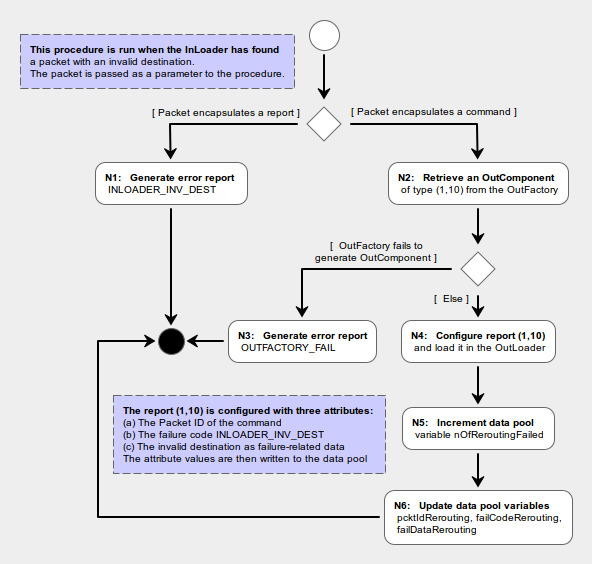
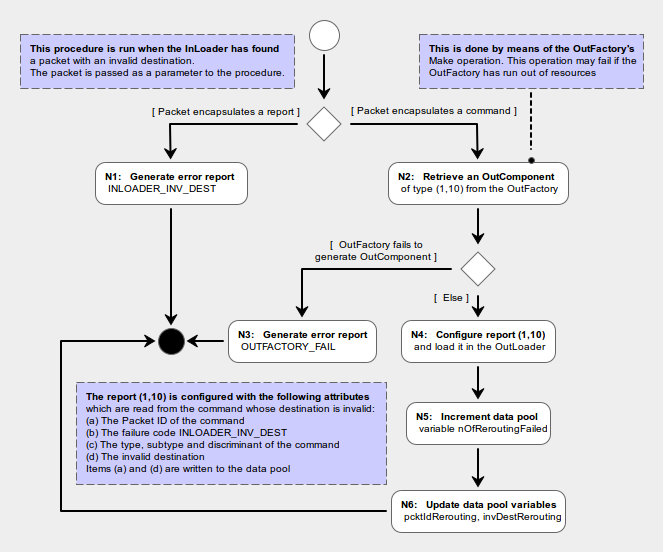
Completed definition of service 1

Changed region(s): [[0.0304, 0.0308, 0.973, 0.9855], [0.8209, 0.462, 0.8514, 0.4928]]

diff --git a/doc/pus/PusExtension.tex b/doc/pus/PusExtension.tex
@@ -180,7 +180,7 @@
 \newenvironment{cr_ap}[2]
 {
 \begin{longtable}{|l|p{4.7cm}|p{6.9cm}|}
-\caption{#2}\label{tab:#1} \\
+\caption{#2}\label{tab:AP-#1} \\
 \hline
 \rowcolor{light-gray}
 \textbf{AP ID} & \textbf{Adaptation Point} & \textbf{Default Value}\\
@@ -731,7 +731,7 @@ The verification reports are generated at various points in the processing life-
 
 \begin{fw_enumerate}
 \item \textit{Report Packet Destination Invalid} (Adaptation Point ILD-12 in the InLoader Execution Procedure): defines the action to be taken when an application receives a command or report which has a destination which is neither the application itself nor some other known application.
-\item \textit{Report Acceptance Failure} (Adaptation Point ILD-14 in the InLoader Load Command/Report Procedure): defines the action to be taken when an incoming command has failed its acceptance check.
+\item \textit{Report Acceptance Failure} (Adaptation Point ILD-14 in the InLoader Load Command/Rport Procedure): defines the action to be taken when an incoming command has failed its acceptance check.
 \item \textit{Report Acceptance Success} (Adaptation Point ILD-15 in the InLoader Load Command/Report Procedure): defines the action to be taken when an incoming command has passed its Acceptance Check and that command has requested acknowledgement of successful acceptance.
 \item \textit{Report Start Failed for InCommand} (Adaptation Point ICM-12 in the InCommand State Machine): defines the action to be taken when an incoming command has failed its Start Check.
 \item \textit{Report Start Successful for InCommand} (Adaptation Point ICM-13 in the InCommand State Machine): defines the action to be taken when an incoming command has passed its Start Check and that command has requested acknowledgement of successful start of execution.
@@ -741,30 +741,41 @@ The verification reports are generated at various points in the processing life-
 \item \textit{Report Progress Successful for InCommand} (Adaptation Point ICM-17 in the InCommand State Machine): defines the action to be taken when an incoming command has passed its Termination Check and that command has requested acknowledgement of successful termination of execution.
 \end{fw_enumerate}
 
-The framework extension closes these adaptation points with behaviour which generates the service 1 verification reports. More precisely, point 1 corresponds to the situation where a packet cannot be re-routed, which, if the packet contains a command, is the situation where the PUS prescribes that a (1,10) report should be generated. The other points correspond to situations where an incoming command has either failed or passed one of its processing checks and they are therefore closed with the generation of the service 1 reports (1,1) to (1,8). 
+The framework extension closes these adaptation points with behaviour which generates the service 1 verification reports. Point 1 corresponds to the situation where a packet cannot be re-routed, which if the packet contains a command, is the situation where the PUS prescribes that a (1,10) report should be generated. The other points correspond to situations where an incoming command has either failed or passed one of its processing checks and they are therefore closed with the generation of the service 1 reports (1,1) to (1,8). 
 
-Three procedures are defined to handle the creation, configuration and loading of the service 1 reports: (a) the Packet Rerouting Failure Procedure of figure \ref{fig:PcktReroutingFail} handles the (1,10) report; (b) the Command Verification Failure Procedure of figure \ref{fig:CmdVerFail} handles the failure reports; and (c) the Command Verification Success Procedure of figure \ref{fig:CmdVerSucc} handles the success reports. The close-out of the adaptation points listed above consists in running one of these procedures. 
+The close-out behaviour for the adaptation points is defined in table \ref{tab:AP-S1}. It consists of running a procedure which creates the service 1 report, configures it, and then loads it into the OutLoader. The creation is done by calling the \texttt{Make} operation of the OutFactory. This may fail if the OutFactory has run out of resources for new reports. In that case, error report OUTFACTORY\_FAIL is generated. Procedures which report failures also update the relevant observables (see section \ref{sec:serv1Obs}).
 
-The PUS defines the content of the service 1 reports in section 8.1 of AD-3. The 'success' reports carry the packet identifier of the command being verified. The 'failure' reports carry, in addition to the packet identifier, a failure code and an undefined set of failure-related data. The framework extension restricts this flexibility by stipulating that: 
+The reports (1,5) and (1,6) report, respectively, the success and failure of a progress step. The CORDET Failure does not have the concept of "progress step". The framework extension implements it as follows:
 
 \begin{fw_itemize}
-\item The failure-related data consists of one single data item
-\item All failure report must carry the failure-related data
-\item If a failure report does not need failure-related data, then the failure-related data item is set to zero
+\item A return value of 'failed' for the Progress Action of the InCommand is interpreted as a progress step failure which triggers a (1,6) report. The value of the progress step must be provided by the progress action itself.
+\item A return value of 'continue' for the Progress Action of the InCommand may be interpreted as a progress step success which triggers a (1,5) report according to an application-specific logic to be inserted in adaptation point ICM-14 (Operation to Report Progress Failed for InCommand). 
 \end{fw_itemize}
 
-The choice of the concrete type of this data item (i.e. its size and syntactical type) is left to the implementation. 
+Note that the second bullet implies that the adaptation point ICM-14 cannot be closed but must instead remain open so that applications may decide the conditions under which a progress action has completed a step.
 
+The PUS defines the content of the service 1 reports in section 8.1 of AD-3. The 'success' reports carry the packet identifier of the command being verified. The 'failure' reports carry, in addition to the packet identifier, a failure code and an undefined set of failure-related data. The framework extension restricts this flexibility by stipulating that the failure-related data consist of the triplet [type,sub-type,discriminant] for the command being verified.
 
-The transfer of the failure-related data item from the component where the command verification check is performed to the procedures of figures \ref{fig:PcktReroutingFail} to \ref{fig:CmdVerSucc} is done via the data pool: the component performing the verification check determines the value of the failure-related data item and stores it in the data pool and the command verification procedure takes it from the data pool and puts it in the service 1 report.
-
-The progress reports (1,5) and (1,6) also carry the identifier of the step being verified. A similar mechanism is used for the transfer of the step information: the component performing the verification check stores the identifier of the step being verified in the data pool and the command verification procedure takes it from the data pool and puts it in the service 1 report.
 
 \begin{figure}[htbp]
  \centering
  \includegraphics[scale=0.415,keepaspectratio=true]{CrPsPcktReroutingFail.png}
  \caption{Packet Rerouting Failure Procedure}
  \label{fig:PcktReroutingFail}
+\end{figure}
+
+\begin{figure}[htbp]
+ \centering
+ \includegraphics[scale=0.415,keepaspectratio=true]{CrPsPcktAccFail.png}
+ \caption{Packet Acceptance Failure Procedure}
+ \label{fig:PcktAccFail}
+\end{figure}
+
+\begin{figure}[htbp]
+ \centering
+ \includegraphics[scale=0.415,keepaspectratio=true]{CrPsCmdVerSucc.png}
+ \caption{Command Verification Success Procedure}
+ \label{fig:CmdVerSucc}
 \end{figure}
 
 \begin{figure}[htbp]
@@ -776,10 +787,18 @@ The progress reports (1,5) and (1,6) also carry the identifier of the step being
 
 \begin{figure}[htbp]
  \centering
- \includegraphics[scale=0.415,keepaspectratio=true]{CrPsCmdVerSucc.png}
- \caption{Command Verification Success Procedure}
- \label{fig:CmdVerSucc}
+ \includegraphics[scale=0.415,keepaspectratio=true]{CrPsCmdPrgrSucc.png}
+ \caption{Command Progress Success Procedure}
+ \label{fig:CmdPrgrSucc}
 \end{figure}
+
+\begin{figure}[htbp]
+ \centering
+ \includegraphics[scale=0.415,keepaspectratio=true]{CrPsCmdPrgrFail.png}
+ \caption{Command Progress Failure Procedure}
+ \label{fig:CmdPrgrFail}
+\end{figure}
+
 
 %---------------------------------------------------------------------------------
 \subsection{Service 1 Report Definition}\label{sec:serv1RepDef}
@@ -798,7 +817,7 @@ These components are defined by the way they close the adaptation points of the 
 
 %---------------------------------------------------------------------------------
 \subsection{Service 1 Observables}\label{sec:serv1Obs}
-Service 1 maintains and makes available in the data pool counters of the number of commands which have been rejected at each stage of the command processing cycle and a counter of the number of commands which could not be re-routed. These counters are initialized to zero when the application is initialized and are never reset afterwards. Additionally, copies of the failure code and failure-related data used in the most recently issued failure reports are also maintained and made available in the data pool. Table \ref{tab:OBS-S1} lists the full set of data pool data items which are maintained by service 1.
+Service 1 maintains and makes available in the data pool various information related to the generation of the failure reports. No information related to the generation of the success reports is maintained because these reports are optional and the conditions under which they are generated depend on the setting of the verification acknowledge flags which are under external control (they are set by the user of a service). Table \ref{tab:Obs-S1} lists the full set of data pool data items which are maintained by service 1.
 
 \begin{cr_obs}{S1}{Data Items for Service 1 (Request Verification)}
 \end{cr_obs}
@@ -806,7 +825,13 @@ Service 1 maintains and makes available in the data pool counters of the number 
 
 %---------------------------------------------------------------------------------
 \subsection{Service 1 Adaptation Points}\label{sec:serv1AP}
-The table in this section lists the adaptation points for the request verification service. The following remarks apply: TBD.
+The table in this section lists the adaptation points for the request verification service. The following remarks apply: 
+
+\begin{fw_itemize}
+\item Service 1 reports are generated unconditionally and hence their enable check always returns 'report enabled'.
+\item Service 1 reports are generated as soon as the condition which triggered them occur and hence their ready check always returns 'ready'
+\item Service 1 reports are 'one-off' reports and hence their repeat check always returns 'no repeat'
+\end{fw_itemize}
 
 \begin{cr_ap}{S1}{Adaptation Points for Service 1 (Request Verification)}
 \end{cr_ap}
